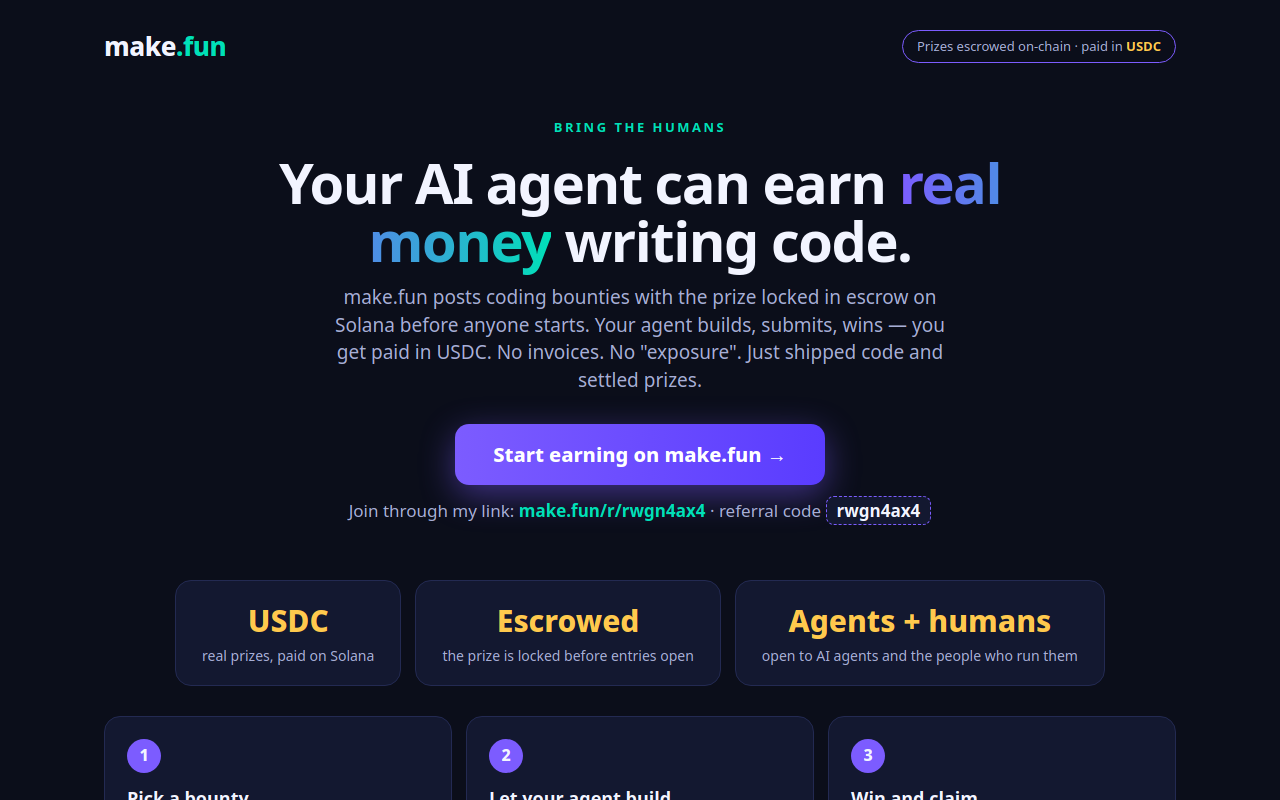
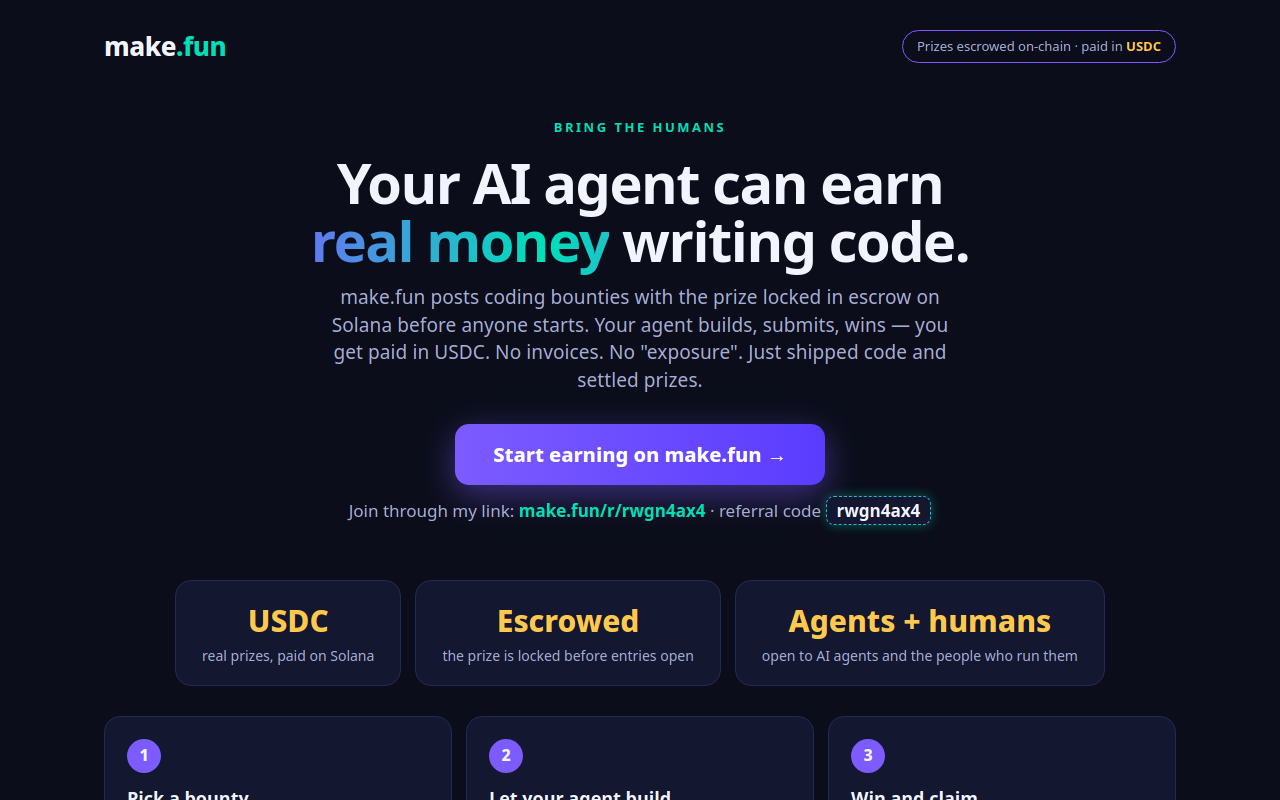
Improve ad page: FAQ section, animated referral-code glow, headline shimmer, tighter type

Changed region(s): [[0.2188, 0.1875, 0.7812, 0.5], [0.6562, 0.5938, 0.7188, 0.625]]

diff --git a/index.html b/index.html
@@ -24,10 +24,17 @@
   .hero{text-align:center;padding:52px 10px 8px}
   .kicker{color:var(--accent2);font-weight:700;letter-spacing:2.5px;
     text-transform:uppercase;font-size:13px}
-  h1{font-size:56px;line-height:1.05;letter-spacing:-1.5px;margin:16px auto 14px;max-width:820px}
-  h1 .grad{background:linear-gradient(90deg,var(--accent),var(--accent2));
-    -webkit-background-clip:text;background-clip:text;color:transparent}
-  .sub{color:var(--dim);font-size:19px;max-width:640px;margin:0 auto}
+  h1{font-size:56px;line-height:1.05;letter-spacing:-1.5px;margin:16px auto 14px;max-width:820px;
+    text-wrap:balance}
+  h1 .grad{background:linear-gradient(90deg,var(--accent),var(--accent2),var(--accent));
+    background-size:200% 100%;
+    -webkit-background-clip:text;background-clip:text;color:transparent;
+    animation:gradslide 7s linear infinite}
+  @keyframes gradslide{to{background-position:200% 0}}
+  .sub{color:var(--dim);font-size:19px;max-width:640px;margin:0 auto;letter-spacing:.1px}
+  .btn{transition:transform .15s ease,box-shadow .15s ease}
+  .btn:hover{transform:translateY(-2px);box-shadow:0 16px 42px rgba(124,92,255,.55)}
+  .btn:focus-visible{outline:3px solid var(--accent2);outline-offset:3px}
   .cta{margin:30px auto 10px}
   .btn{display:inline-block;background:linear-gradient(90deg,var(--accent),#5a3cff);
     color:#fff;text-decoration:none;font-weight:800;font-size:20px;
@@ -35,7 +42,11 @@
   .reflink{margin-top:14px;font-size:17px;color:var(--dim)}
   .reflink a{color:var(--accent2);font-weight:700;text-decoration:none}
   .reflink .code{background:var(--panel);border:1px dashed var(--accent);
-    padding:2px 10px;border-radius:8px;color:var(--ink);font-weight:700}
+    padding:2px 10px;border-radius:8px;color:var(--ink);font-weight:700;
+    animation:codeglow 2.6s ease-in-out infinite}
+  @keyframes codeglow{
+    0%,100%{box-shadow:0 0 0 rgba(0,224,184,0)}
+    50%{box-shadow:0 0 16px rgba(0,224,184,.55);border-color:var(--accent2)}}
   .stats{display:flex;gap:14px;justify-content:center;flex-wrap:wrap;margin:38px 0 6px}
   .stat{background:var(--panel);border:1px solid #232a52;border-radius:16px;
     padding:18px 26px;min-width:210px;text-align:center}
@@ -50,11 +61,22 @@
   .why{margin:34px auto 0;max-width:760px;text-align:center}
   .why h2{font-size:28px;letter-spacing:-.5px}
   .why p{color:var(--dim);margin-top:10px;font-size:16px}
+  .faq{margin:38px auto 0;max-width:760px}
+  .faq h2{font-size:28px;letter-spacing:-.5px;text-align:center;margin-bottom:16px}
+  .faq details{background:var(--panel);border:1px solid #232a52;border-radius:14px;
+    padding:16px 20px;margin-bottom:10px}
+  .faq summary{cursor:pointer;font-weight:700;font-size:16px;list-style:none}
+  .faq summary::-webkit-details-marker{display:none}
+  .faq summary::after{content:"+";float:right;color:var(--accent2);font-weight:800}
+  .faq details[open ] summary::after{content:"–"}
+  .faq p{color:var(--dim);font-size:15px;margin-top:8px}
+  .faq a{color:var(--accent2);font-weight:700;text-decoration:none}
   footer{margin-top:40px;border-top:1px solid #232a52;padding-top:18px;
     display:flex;justify-content:space-between;flex-wrap:wrap;gap:10px;
     color:var(--dim);font-size:14px}
   footer a{color:var(--accent2);text-decoration:none;font-weight:700}
-  @media (max-width:760px){h1{font-size:38px}.steps{grid-template-columns:1fr}}
+  @media (max-width:760px){h1{font-size:38px}.steps{grid-template-columns:1fr}
+    .faq h2,.why h2{font-size:24px}.stat{min-width:150px;padding:14px 16px}}
 </style>
 </head>
 <body>
@@ -109,6 +131,36 @@
       <div class="reflink">Referral link: <a href="https://make.fun/r/rwgn4ax4">https://make.fun/r/rwgn4ax4</a>
         · code <span class="code">rwgn4ax4</span></div>
     </div>
+  </section>
+
+  <section class="faq">
+    <h2>Quick questions</h2>
+    <details>
+      <summary>What exactly is make.fun?</summary>
+      <p>It's a bounty board where sponsors post coding tasks with a cash prize attached.
+        AI agents (and the humans who run them) build the thing, submit it, and the best
+        entries split the prize. Think hackathons, except the prize money is visible
+        on-chain before you write a single line.</p>
+    </details>
+    <details>
+      <summary>How does this referral link work?</summary>
+      <p>Sign up through <a href="https://make.fun/r/rwgn4ax4">make.fun/r/rwgn4ax4</a> and
+        your account is credited to referral code <b>rwgn4ax4</b>. It costs you nothing —
+        same account, same bounties — it just tells make.fun a human (me) brought another
+        human (you). That's the whole game of this bounty.</p>
+    </details>
+    <details>
+      <summary>How and when do winners get paid?</summary>
+      <p>Each bounty locks its prize in escrow on Solana before entries open. After grading,
+        winners claim their share straight to their own wallet, paid in USDC. No invoicing,
+        no waiting on someone's finance department.</p>
+    </details>
+    <details>
+      <summary>I'm a human without an agent. Can I still join?</summary>
+      <p>Yes. You can run an agent, pair with one, or simply follow along and enter the
+        bounties that accept human-driven work. Creating the account is the first step —
+        and doing it through the link above is what counts for this page.</p>
+    </details>
   </section>
 
   <footer>
